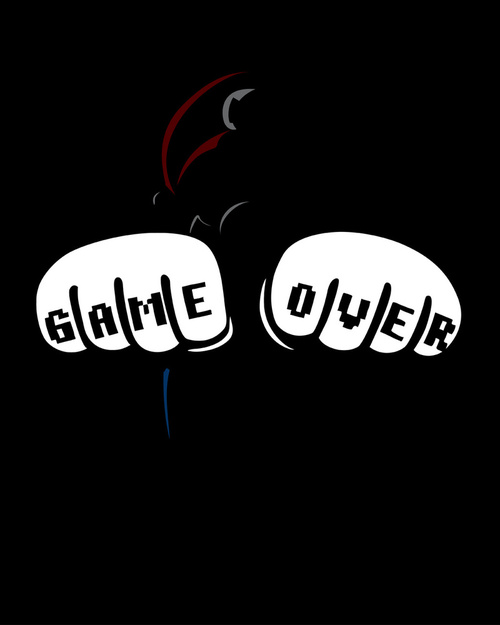
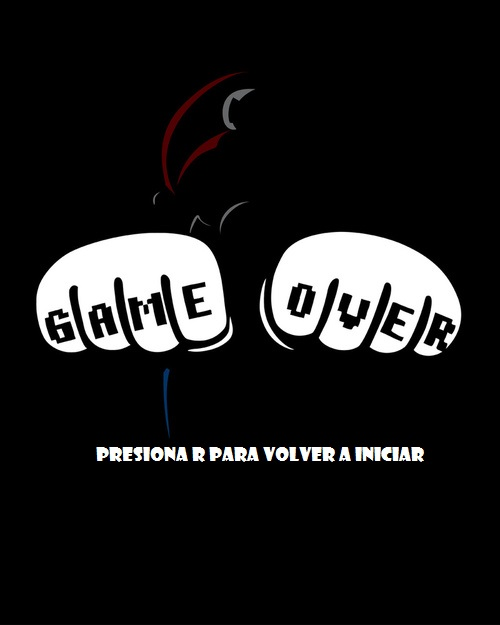
Gameover

Changed region(s): [[0.18, 0.6992, 0.87, 0.76]]

diff --git a/src/jframeexamen/JFrameExamen.java b/src/jframeexamen/JFrameExamen.java
@@ -132,14 +132,15 @@ public class JFrameExamen extends JFrame implements Runnable, KeyListener, Mouse
 
         }
 
-        URL goURL = this.getClass().getResource("pill/creditos.jpg");
+        URL goURL = this.getClass().getResource("barra/creditos.png");
         game_over = Toolkit.getDefaultToolkit().getImage(goURL);
         URL fURL = this.getClass().getResource("Fondo/FondoDos.jpg");
         fondo = Toolkit.getDefaultToolkit().getImage(fURL).getScaledInstance(getWidth(), getHeight(), 1);
-        URL aURL = this.getClass().getResource("pill/impulso.png");
+        URL aURL = this.getClass().getResource("pill/gameover.jpg");
         perder = Toolkit.getDefaultToolkit().getImage(aURL);
         URL gURL = this.getClass().getResource("pill/imagenpausa.jpg");
         pause = Toolkit.getDefaultToolkit().getImage(gURL);
+        
         instrucciones = false;
 
     }
@@ -607,11 +608,13 @@ public class JFrameExamen extends JFrame implements Runnable, KeyListener, Mouse
             }
 
         } else {
-             g.drawImage(perder, 0, 20, this);
+             g.drawImage(perder, 140, 20, this);
         }
         if (contbloques == 60) {
             acabarjuego = true;
             musicafondo = true;
+            g.drawImage(game_over,0,20,this);
+            
         }
     }
 
